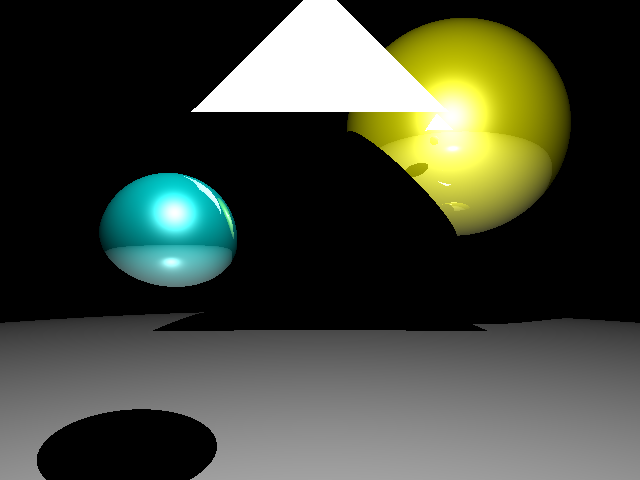
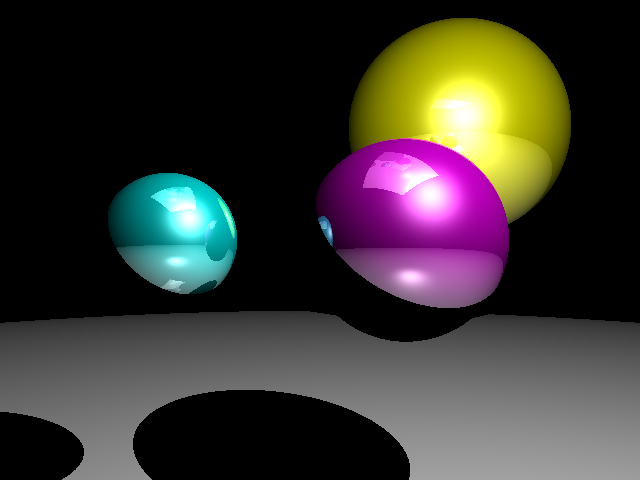
Triangle rendering is working.

diff --git a/Scene.py b/Scene.py
@@ -4,8 +4,7 @@ from Ray import Ray
 import matplotlib.pyplot as plt
 import numpy as np
 import math
-from SpherePrimitive import SpherePrimitive
-
+from datetime import datetime as dt
 
 class Scene:
     def __init__(self, objects: list = [], lights: list = []):
@@ -15,15 +14,17 @@ class Scene:
     def nearest_intersection(self, ray: Ray):
         min_distance = math.inf
         obj = None
+        normal_to_surface = None
         for object in self.objects:
-            intersection = object.intersect(ray=ray)
-            if intersection and intersection < min_distance:
-                min_distance = intersection
+            this_distance, this_normal_to_surface = object.intersect(ray=ray)
+            if this_distance and this_distance < min_distance:
+                min_distance = this_distance
                 obj = object
-
-        return obj, min_distance
+                normal_to_surface = this_normal_to_surface
+        return (obj, min_distance, normal_to_surface)
 
     def render(self, camera_position: Q_Vector3d, width: int = 64, height: int = 64, max_depth: int = 1):
+        start_time = dt.now()
         image = np.zeros((height, width, 3))
         SCREEN_RATIO = float(width) / float(height)
         SCREEN_DIMS = {'left': -1, 'top': 1 / SCREEN_RATIO, 'right': 1, 'bottom': -1 / SCREEN_RATIO}
@@ -45,22 +46,24 @@ class Scene:
 
                 for _ in range(max_depth):
                     ray = Ray(origin=origin, direction=direction)
-                    nearest_object, distance_to_object = self.nearest_intersection(ray=ray)
+                    nearest_object, distance_to_object, normal_to_surface = self.nearest_intersection(ray=ray)
 
                     self.actual_max_depth = max(self.actual_max_depth, _ + 1)
 
                     # Did we even hit anything?
                     if nearest_object is None:
                         break
+                    if normal_to_surface is None:
+                        print('WTF***************')
 
                     intersection_point = origin + direction * distance_to_object
                     # Need to create a structure that can return the distance and normal from the object
-                    normal_to_surface = (intersection_point - nearest_object.position).normalized() if type(nearest_object) == SpherePrimitive else nearest_object.face_normal * -1
+                    # normal_to_surface = (intersection_point - nearest_object.position).normalized() if type(nearest_object) == SpherePrimitive else nearest_object.face_normal * -1
                     shifted_point = intersection_point + normal_to_surface * 1e-5
                     direction_from_intersection_to_light = (self.lights[0]['position'] - shifted_point).normalized()
 
                     ray = Ray(origin=shifted_point, direction=direction_from_intersection_to_light)
-                    _, distance_to_object = self.nearest_intersection(ray=ray)
+                    _, distance_to_object, __ = self.nearest_intersection(ray=ray)
 
                     distance_to_light = (self.lights[0]['position'] - intersection_point).length
                     is_shadowed = distance_to_object < distance_to_light
@@ -99,3 +102,4 @@ class Scene:
         plt.imsave('image.png', image)
         print()
         print(f'Maximum depth allowed: {max_depth} -- Actual depth reached: {self.actual_max_depth}')
+        print(f'Render completed in {dt.now() - start_time}.')

diff --git a/ray_tracing_python_native.py b/ray_tracing_python_native.py
@@ -11,15 +11,18 @@ CAMERA = Q_Vector3d(0, 0, -1.75)
 MAX_DEPTH = 5
 
 objects = [
-    # SpherePrimitive(position=Q_Vector3d(x=2.5, y=0, z=15), ambient=Q_Vector3d(0.1, 0, 0.1), diffuse=Q_Vector3d(0.7, 0, 0.7), specular=Q_Vector3d(1.0, 1.0, 1.0), shininess=100, reflection=0.5, radius=3),
+    SpherePrimitive(position=Q_Vector3d(x=2.5, y=0, z=15), ambient=Q_Vector3d(0.1, 0, 0.1), diffuse=Q_Vector3d(0.7, 0, 0.7), specular=Q_Vector3d(1.0, 1.0, 1.0), shininess=100, reflection=0.5, radius=3),
     SpherePrimitive(position=Q_Vector3d(x=-4.5, y=0, z=15), ambient=Q_Vector3d(0, 0.1, 0.1), diffuse=Q_Vector3d(0, 0.7, 0.7), specular=Q_Vector3d(1.0, 1.0, 1.0), shininess=100, reflection=0.5, radius=2.0),
     SpherePrimitive(position=Q_Vector3d(x=10, y=8, z=40), ambient=Q_Vector3d(0.1, 0.1, 0), diffuse=Q_Vector3d(0.7, 0.7, 0), specular=Q_Vector3d(1.0, 1.0, 1.0), shininess=100, reflection=0.5, radius=8.0),  # Yellow
     SpherePrimitive(position=Q_Vector3d(x=0, y=-1000, z=15), ambient=Q_Vector3d(0.1, 0.1, 0.1), diffuse=Q_Vector3d(0.7, 0.7, 0.7), specular=Q_Vector3d(1.0, 1.0, 1.0), shininess=100, reflection=0.5, radius=990.0),  # Bottom plane
-    TrianglePrimitive(vertices=(Q_Vector3d(x=-5, y=5, z=20), Q_Vector3d(x=5, y=5, z=20), Q_Vector3d(x=0, y=10, z=20)), ambient=Q_Vector3d(0.1, 0.1, 0.1), diffuse=Q_Vector3d(0.7, 0.7, 0.7), specular=Q_Vector3d(1.0, 1.0, 1.0), shininess=100, reflection=0.5),
+    # TrianglePrimitive(vertices=(Q_Vector3d(x=-13, y=0, z=10), Q_Vector3d(x=-3, y=0, z=10), Q_Vector3d(x=-8, y=5, z=10)), ambient=Q_Vector3d(0.1, 0.1, 0.1), diffuse=Q_Vector3d(0.7, 0.7, 0.7), specular=Q_Vector3d(1.0, 1.0, 1.0), shininess=100, reflection=0.5),
+    # TrianglePrimitive(vertices=(Q_Vector3d(x=-13, y=0, z=10), Q_Vector3d(x=-3, y=0, z=10), Q_Vector3d(x=-8, y=-5, z=10)), ambient=Q_Vector3d(0.1, 0.1, 0.1), diffuse=Q_Vector3d(0.7, 0.7, 0.7), specular=Q_Vector3d(1.0, 1.0, 1.0), shininess=100, reflection=0.5),
+    TrianglePrimitive(vertices=(Q_Vector3d(x=-10, y=15, z=10), Q_Vector3d(x=10, y=15, z=10), Q_Vector3d(x=0, y=15, z=0)), ambient=Q_Vector3d(0.1, 0.1, 0.1), diffuse=Q_Vector3d(0.7, 0.7, 0.7), specular=Q_Vector3d(1.0, 1.0, 1.0), shininess=100, reflection=0.5),
+    TrianglePrimitive(vertices=(Q_Vector3d(x=-10, y=15, z=10), Q_Vector3d(x=10, y=15, z=10), Q_Vector3d(x=0, y=15, z=20)), ambient=Q_Vector3d(0.1, 0.1, 0.1), diffuse=Q_Vector3d(0.7, 0.7, 0.7), specular=Q_Vector3d(1.0, 1.0, 1.0), shininess=100, reflection=0.5),
 ]
 
 lights = [
-    {'position': Q_Vector3d(0, 10, 5), 'color': Q_Vector3d(1, 1, 1)}
+    {'position': Q_Vector3d(7, 10, 5), 'color': Q_Vector3d(1, 1, 1)}
 ]
 
 scene = Scene(objects=objects, lights=lights)

diff --git a/TrianglePrimitive.py b/TrianglePrimitive.py
@@ -3,17 +3,15 @@ from Ray import Ray
 import math
 from Primitive import Primitive
 
-class TrianglePrimitive:
+
+class TrianglePrimitive(Primitive):
 
     EPSILON = 0.000000001
 
     def __init__(self, vertices: tuple, ambient: Q_Vector3d, diffuse: Q_Vector3d, specular: Q_Vector3d, shininess: float, reflection: float):
+        Primitive.__init__(self, position=Q_Vector3d(0, 0, 0), ambient=ambient, diffuse=diffuse, specular=specular, shininess=shininess, reflection=reflection)
         self.vertices = vertices
-        self.ambient = ambient
-        self.diffuse = diffuse
-        self.specular = specular
-        self.shininess = shininess
-        self.reflection = reflection
+        self.position = self._position
 
     @staticmethod
     def from_vertices(vertex_1: Q_Vector3d, vertex_2: Q_Vector3d, vertex_3: Q_Vector3d, ambient: Q_Vector3d, diffuse: Q_Vector3d, specular: Q_Vector3d, shininess: float, reflection: float):
@@ -35,9 +33,9 @@ class TrianglePrimitive:
         return self.u_vector.cross_product(self.v_vector).normalized()
 
     @property
-    def position(self) -> Q_Vector3d:
-        # return (self.vertices[0] + self.vertices[1] + self.vertices[2]) * (1 / 3)
-        return self.face_normal
+    def _position(self) -> Q_Vector3d:
+        return (self.vertices[0] + self.vertices[1] + self.vertices[2]) * (1 / 3)
+        # return self.face_normal
 
     def intersect(self, ray: Ray):
         # E1 = self.u_vector
@@ -61,7 +59,7 @@ class TrianglePrimitive:
 
         # ray and triangle are parallel if det is close to 0
         if (math.fabs(det) < TrianglePrimitive.EPSILON):
-            return
+            return None, None
 
         backfacing = det < TrianglePrimitive.EPSILON
 
@@ -71,16 +69,15 @@ class TrianglePrimitive:
         qVec = tVec.cross_product(self.u_vector)
         v = ray.direction.dot_product(qVec) * invDet
 
-        # extra parens to keep clang-format happy...
         if u < 0.0 or u > 1.0 or v < 0.0 or (u + v) > 1.0:
-            return
+            return None, None
 
         t = self.v_vector.dot_product(qVec) * invDet
 
         if (t < TrianglePrimitive.EPSILON):
-            return
+            return None, None
 
         if not backfacing:
-            return t  # and normal -- if backfacting return t and negative normal
+            return t, self.face_normal  # and normal -- if backfacting return t and negative normal
         else:
-            return t
+            return t, self.face_normal * -1

diff --git a/SpherePrimitive.py b/SpherePrimitive.py
@@ -29,5 +29,8 @@ class SpherePrimitive(Primitive):
             t1 = (-b + math.sqrt(delta)) / 2
             t2 = (-b - math.sqrt(delta)) / 2
             if t1 > 0 and t2 > 0:
-                return min(t1, t2)
-        return None
+                distance = min(t1, t2)
+                intersection_point = ray.origin + ray.direction * distance
+                normal_to_surface = (intersection_point - self.position).normalized()
+                return distance, normal_to_surface
+        return None, None
